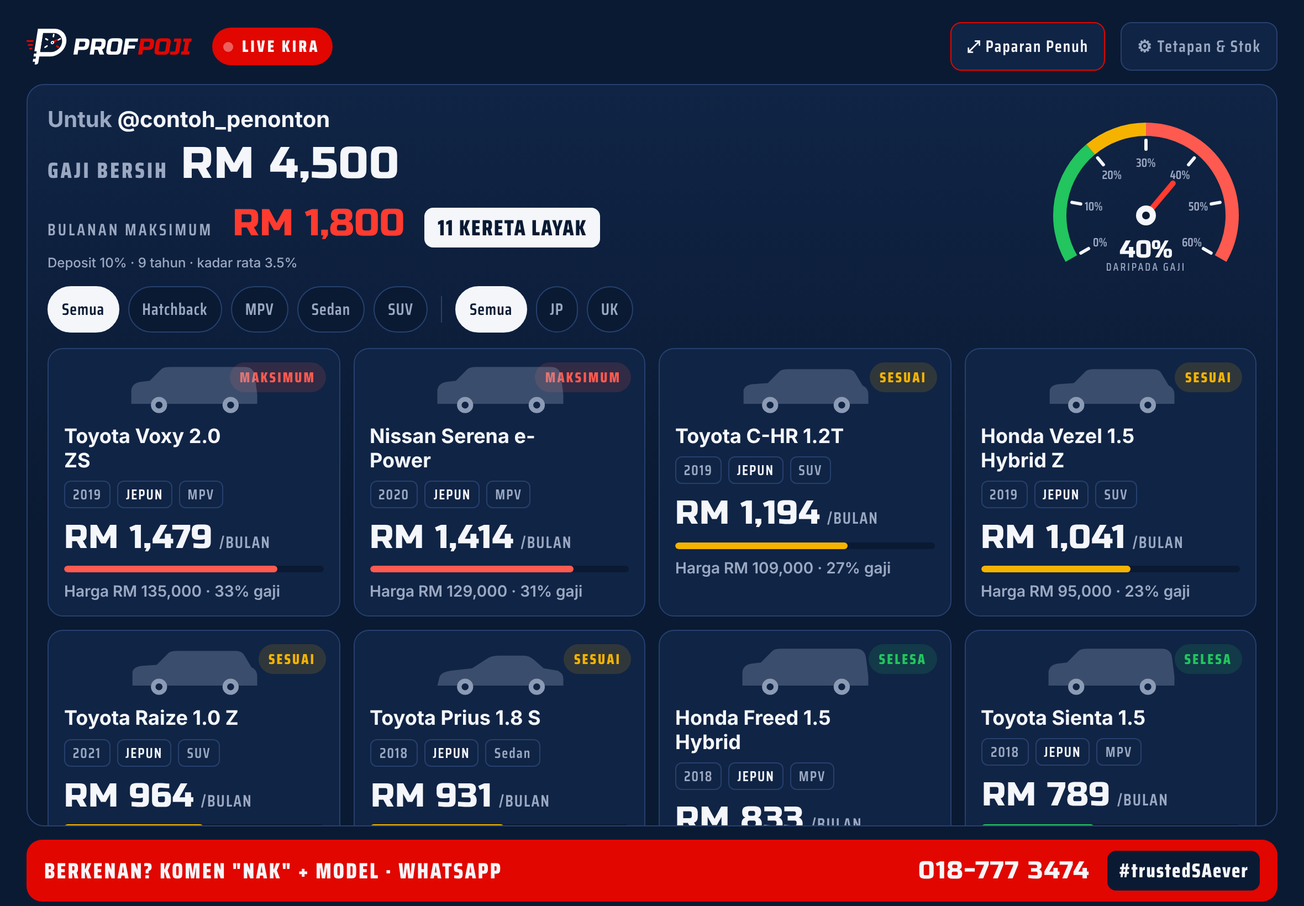
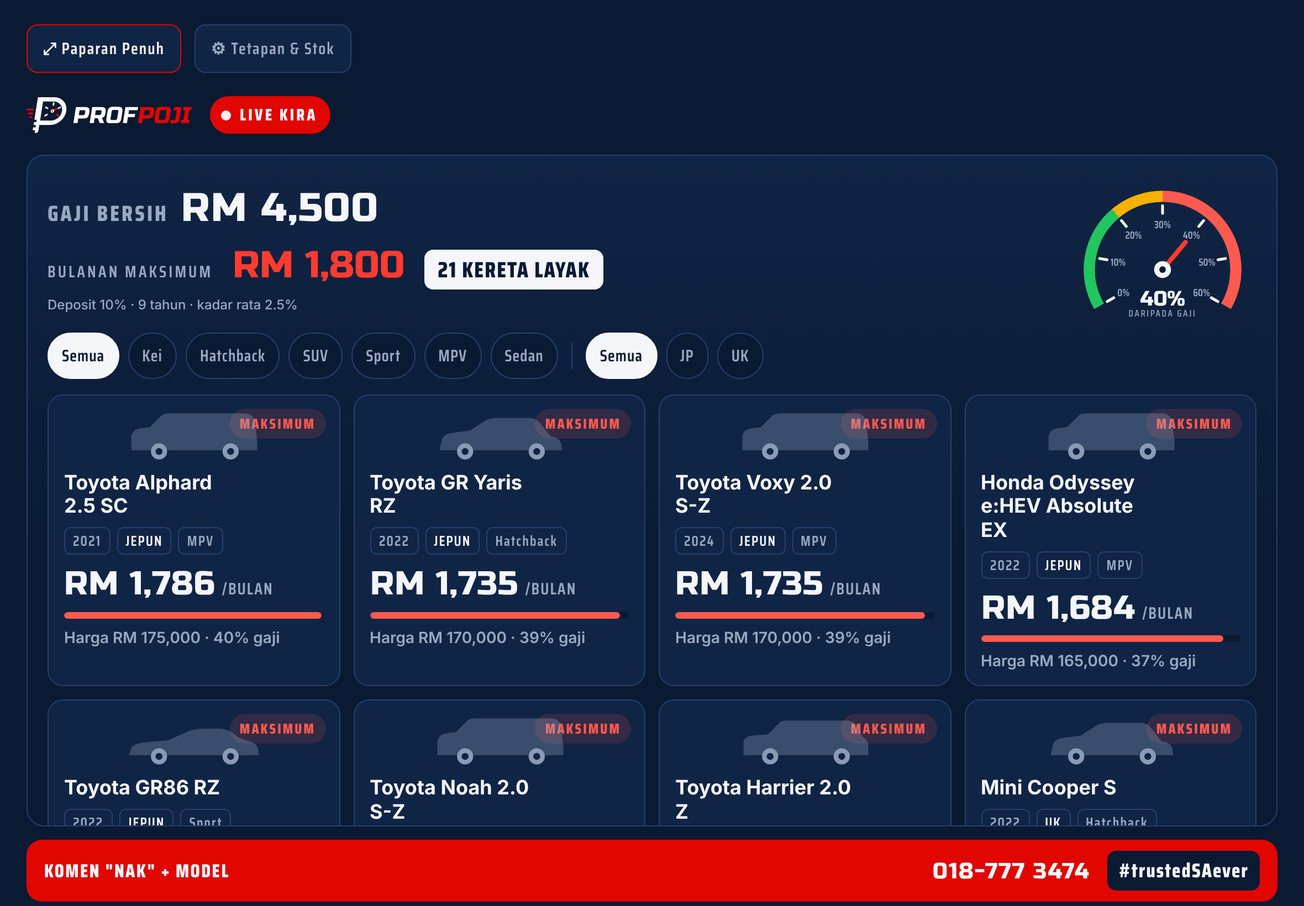
Live Kira: 50/50 layout, controls left, brand on stage side, remove viewer name
Claude-Session: https://claude.ai/code/session_012NA3A3oBaozfWnPx4m1XVS

diff --git a/live-kira/index.html b/live-kira/index.html
@@ -23,9 +23,14 @@ button{font:inherit;color:inherit;cursor:pointer;border:0;background:none}
 button:focus-visible,input:focus-visible,textarea:focus-visible{outline:3px solid var(--red-soft);outline-offset:2px}
 .num{font-variant-numeric:tabular-nums}
 
-.app{display:grid;grid-template-rows:auto 1fr auto;gap:12px;height:100%;min-height:600px}
+.app{display:grid;grid-template-columns:1fr 1fr;gap:12px;height:100%;min-height:600px}
+.opcol,.stagecol{display:grid;grid-template-rows:auto 1fr;gap:12px;min-height:0;min-width:0}
+.stagecol{grid-template-rows:auto 1fr auto}
+.app.full{grid-template-columns:1fr;grid-template-rows:auto 1fr}
+.app.full .op{display:none}
+.app.full .opcol{grid-template-rows:auto}
 /* top bar */
-.top{display:flex;align-items:center;gap:14px;flex-wrap:wrap}
+.top{display:flex;align-items:center;gap:12px;flex-wrap:wrap;min-height:48px}
 .top .logo{height:38px;width:auto;display:block}
 .live{display:inline-flex;align-items:center;gap:8px;padding:5px 12px 5px 10px;border-radius:999px;background:var(--red);font:800 15px var(--f-label);letter-spacing:2px}
 .live i{width:9px;height:9px;border-radius:50%;background:#fff;animation:blink 1.2s infinite}
@@ -34,9 +39,6 @@ button:focus-visible,input:focus-visible,textarea:focus-visible{outline:3px soli
 .tbtn{display:inline-flex;align-items:center;gap:8px;padding:9px 14px;border-radius:10px;background:var(--navy-2);border:1px solid var(--line);font:600 15px var(--f-label);letter-spacing:1px;color:var(--muted)}
 .tbtn[aria-pressed="true"]{color:var(--ink);border-color:var(--red)}
 
-.main{display:grid;grid-template-columns:minmax(300px,34%) 1fr;gap:12px;min-height:0}
-.app.full .main{grid-template-columns:1fr}
-.app.full .op{display:none}
 
 /* operator panel */
 .op{background:var(--navy-2);border:1px solid var(--line);border-radius:16px;padding:16px;display:flex;flex-direction:column;gap:12px;min-height:0;overflow:auto}
@@ -47,10 +49,12 @@ button:focus-visible,input:focus-visible,textarea:focus-visible{outline:3px soli
 .gaji .rm{font:800 22px var(--f-label);color:var(--muted)}
 .gaji .v{font:44px var(--f-display);letter-spacing:1px;line-height:1.1}
 .keys{display:grid;grid-template-columns:repeat(3,1fr);gap:8px}
-.keys button{height:54px;border-radius:12px;background:var(--navy-3);font:26px var(--f-display);transition:transform .05s}
+.keys button{height:56px;border-radius:12px;background:var(--navy-3);font:26px var(--f-display);transition:transform .05s}
 .keys button:active{transform:scale(.96);background:var(--line)}
 .keys .fn{font:700 18px var(--f-label);letter-spacing:1px;color:var(--muted)}
 .row{display:flex;gap:8px;flex-wrap:wrap;align-items:center}
+.op>*{flex-shrink:0}
+.pair{display:grid;grid-template-columns:1fr 1fr;gap:12px}
 .chip{padding:8px 12px;border-radius:999px;background:var(--navy);border:1px solid var(--line);font:600 15px var(--f-label);letter-spacing:.5px;color:var(--muted)}
 .chip[aria-pressed="true"]{background:var(--ink);color:var(--navy);border-color:var(--ink)}
 .go{height:62px;border-radius:14px;background:var(--red);font:22px var(--f-display);letter-spacing:1px;box-shadow:0 8px 24px rgba(225,6,0,.35)}
@@ -61,19 +65,17 @@ button:focus-visible,input:focus-visible,textarea:focus-visible{outline:3px soli
 /* stage */
 .stage{background:linear-gradient(180deg,var(--navy-2),var(--navy) 60%);border:1px solid var(--line);border-radius:16px;padding:18px;display:flex;flex-direction:column;gap:14px;min-height:0;overflow:auto;position:relative}
 .hero{display:grid;grid-template-columns:1fr auto;gap:18px;align-items:center}
-.who{font:700 20px var(--f-body);color:var(--muted);min-width:0;overflow-wrap:anywhere}
-.who b{color:var(--ink)}
 .salary{font:800 20px var(--f-label);letter-spacing:2px;color:var(--muted);margin-top:4px}
-.salary b{font:40px var(--f-display);color:var(--ink);letter-spacing:1px;margin-left:6px}
+.salary b{font:36px var(--f-display);color:var(--ink);letter-spacing:1px;margin-left:6px}
 .maxline{margin-top:10px;display:flex;flex-wrap:wrap;gap:8px 18px;align-items:baseline}
 .maxline .k{font:600 15px var(--f-label);letter-spacing:2px;color:var(--muted)}
 .maxline .big{font:34px var(--f-display);color:var(--red-soft)}
 .maxline .count{font:800 20px var(--f-label);letter-spacing:1px;background:var(--ink);color:var(--navy);padding:2px 12px;border-radius:8px}
-.gauge{width:200px;height:auto;display:block}
+.gauge{width:170px;height:auto;display:block}
 .filters{display:flex;gap:8px;flex-wrap:wrap;align-items:center}
 .filters .sep{width:1px;height:24px;background:var(--line);margin:0 4px}
 
-.grid{display:grid;grid-template-columns:repeat(auto-fill,minmax(230px,1fr));gap:12px;align-content:start}
+.grid{display:grid;grid-template-columns:repeat(auto-fill,minmax(220px,1fr));gap:12px;align-content:start}
 .car{background:var(--navy-2);border:1px solid var(--line);border-radius:14px;padding:14px;display:flex;flex-direction:column;gap:8px;position:relative;overflow:hidden;animation:pop .35s both}
 @keyframes pop{from{opacity:.0;transform:translateY(8px)}to{opacity:1;transform:none}}
 .car .tier{position:absolute;top:12px;right:12px;font:800 13px var(--f-label);letter-spacing:1.5px;padding:3px 9px;border-radius:999px}
@@ -102,8 +104,8 @@ button:focus-visible,input:focus-visible,textarea:focus-visible{outline:3px soli
 
 /* bottom ticker */
 .cta{display:flex;align-items:center;gap:16px;flex-wrap:wrap;background:var(--red);border-radius:14px;padding:10px 16px}
-.cta .say{font:800 20px var(--f-label);letter-spacing:1.5px;flex:1;min-width:0}
-.cta .ph{font:22px var(--f-display);letter-spacing:1px;user-select:all}
+.cta .say{font:800 17px var(--f-label);letter-spacing:1.2px;flex:1;min-width:0;white-space:nowrap}
+.cta .ph{font:20px var(--f-display);letter-spacing:1px;user-select:all}
 .cta .tag{font:800 18px var(--f-label);letter-spacing:1px;background:var(--navy);padding:4px 10px;border-radius:8px}
 .note{font:500 12px var(--f-body);color:var(--muted)}
 
@@ -119,7 +121,7 @@ button:focus-visible,input:focus-visible,textarea:focus-visible{outline:3px soli
 .help{font:400 13px/1.5 var(--f-body);color:var(--muted);margin:0}
 
 @media (max-width:900px){
-  .main{grid-template-columns:1fr}
+  .app{grid-template-columns:1fr}
   .app{height:auto}
   .hero{grid-template-columns:1fr}
   .gauge{width:170px}
@@ -128,18 +130,12 @@ button:focus-visible,input:focus-visible,textarea:focus-visible{outline:3px soli
 </style>
 
 <div class="app" id="app">
-  <header class="top">
-    <svg class="logo" role="img" aria-label="ProfPoji" xmlns="http://www.w3.org/2000/svg" viewBox="0 50 713 176" width="713" height="176"><g transform="translate(10 0)"><g transform="skewX(-9) translate(18 0)"><rect x="-10" y="112" width="30" height="7" rx="3.5" fill="#E10600"/><rect x="-2" y="128" width="22" height="7" rx="3.5" fill="#E10600"/><rect x="6" y="144" width="14" height="7" rx="3.5" fill="#E10600"/><path d="M40,64 H100 A58,58 0 0 1 100,180 H40 Z M54,82 V162 H100 A40,40 0 0 0 100,82 Z" fill="#FFFFFF" fill-rule="evenodd"/><path d="M30,64 H54 V204 Q54,214 44,214 H40 V202 H30 V190 H40 V180 H30 V168 H40 V158 H30 Z" fill="#FFFFFF"/><line x1="79.5" y1="136.3" x2="72.1" y2="141.5" stroke="#FFFFFF" stroke-width="6.5" stroke-linecap="round"/><line x1="77.8" y1="110.5" x2="69.8" y2="106.3" stroke="#FFFFFF" stroke-width="6.5" stroke-linecap="round"/><line x1="100.0" y1="97.0" x2="100.0" y2="88.0" stroke="#FFFFFF" stroke-width="6.5" stroke-linecap="round"/><line x1="122.2" y1="110.5" x2="130.2" y2="106.3" stroke="#FFFFFF" stroke-width="6.5" stroke-linecap="round"/><line x1="120.5" y1="136.3" x2="127.9" y2="141.5" stroke="#E10600" stroke-width="6.5" stroke-linecap="round"/><path d="M103.7,127.3 L124.6,104.8 L96.3,116.7 Z" fill="#E10600"/><circle cx="100" cy="122" r="7" fill="#FFFFFF"/><circle cx="100" cy="122" r="2.6" fill="#0A1A33"/></g></g><g transform="skewX(-9) translate(42 0)"><path d="M181.76 104.8H222.07999999999998Q232.16 104.8 236.72 109.36Q241.28 113.92 241.28 124.0V133.6Q241.28 143.68 236.72 148.24Q232.16 152.8 222.07999999999998 152.8H199.04V172.0H181.76ZM224.0 124.0Q224.0 118.24000000000001 218.24 118.24000000000001H199.04V139.36H218.24Q224.0 139.36 224.0 133.6ZM249.92 104.8H290.24Q300.32 104.8 304.88 109.36Q309.44 113.92 309.44 124.0V132.64Q309.44 140.608 306.79999999999995 145.024Q304.15999999999997 149.44 298.4 150.88L310.4 172.0H291.68L280.64 151.84H267.2V172.0H249.92ZM292.15999999999997 124.0Q292.15999999999997 118.24000000000001 286.4 118.24000000000001H267.2V138.4H286.4Q292.15999999999997 138.4 292.15999999999997 132.64ZM362.23999999999995 123.03999999999999Q362.23999999999995 117.28 356.47999999999996 117.28H340.15999999999997Q334.4 117.28 334.4 123.03999999999999V153.76Q334.4 159.52 340.15999999999997 159.52H356.47999999999996Q362.23999999999995 159.52 362.23999999999995 153.76ZM379.52 153.76Q379.52 163.84 374.96 168.4Q370.4 172.96 360.32 172.96H336.32Q326.23999999999995 172.96 321.67999999999995 168.4Q317.11999999999995 163.84 317.11999999999995 153.76V123.03999999999999Q317.11999999999995 112.96000000000001 321.67999999999995 108.4Q326.23999999999995 103.84 336.32 103.84H360.32Q370.4 103.84 374.96 108.4Q379.52 112.96000000000001 379.52 123.03999999999999ZM406.40000000000003 172.0H389.12V104.8H442.40000000000003V118.24000000000001H406.40000000000003V134.07999999999998H434.72V147.52H406.40000000000003Z" fill="#FFFFFF"/><path d="M452.96 104.8H493.28Q503.36 104.8 507.92 109.36Q512.48 113.92 512.48 124.0V133.6Q512.48 143.68 507.92 148.24Q503.36 152.8 493.28 152.8H470.24V172.0H452.96ZM495.2 124.0Q495.2 118.24000000000001 489.44 118.24000000000001H470.24V139.36H489.44Q495.2 139.36 495.2 133.6ZM564.32 123.03999999999999Q564.32 117.28 558.5600000000001 117.28H542.24Q536.48 117.28 536.48 123.03999999999999V153.76Q536.48 159.52 542.24 159.52H558.5600000000001Q564.32 159.52 564.32 153.76ZM581.6 153.76Q581.6 163.84 577.04 168.4Q572.48 172.96 562.4 172.96H538.4Q528.32 172.96 523.76 168.4Q519.2 163.84 519.2 153.76V123.03999999999999Q519.2 112.96000000000001 523.76 108.4Q528.32 103.84 538.4 103.84H562.4Q572.48 103.84 577.04 108.4Q581.6 112.96000000000001 581.6 123.03999999999999ZM586.4000000000001 172.0V159.04Q593.888 159.52 601.7600000000001 159.52Q603.9680000000001 159.52 605.2640000000001 158.224Q606.5600000000001 156.928 606.5600000000001 154.72V118.24000000000001H594.08V104.8H623.84V154.72Q623.84 164.128 619.424 168.54399999999998Q615.008 172.96 605.84 172.96Q596.672 172.96 586.4000000000001 172.0ZM667.04 172.0H632.48V158.56H641.12V118.24000000000001H632.48V104.8H667.04V118.24000000000001H658.4V158.56H667.04Z" fill="#E10600"/></g></svg>
-    <span class="live"><i></i>LIVE KIRA</span>
-    <span class="sp"></span>
-    <button class="tbtn" id="btnFull" aria-pressed="false" type="button">⤢ Paparan Penuh</button>
-    <button class="tbtn" id="btnSet" type="button">⚙ Tetapan &amp; Stok</button>
-  </header>
-
-  <div class="main">
+  <div class="opcol">
+    <div class="top">
+      <button class="tbtn" id="btnFull" aria-pressed="false" type="button">⤢ Paparan Penuh</button>
+      <button class="tbtn" id="btnSet" type="button">⚙ Tetapan &amp; Stok</button>
+    </div>
     <section class="op" aria-label="Panel input">
-      <div class="field"><label class="lbl" for="nama">Nama penonton</label>
-        <input class="inp" id="nama" placeholder="@nama_tiktok" autocomplete="off"></div>
       <div class="field"><span class="lbl">Gaji bersih sebulan</span>
         <div class="gaji"><span class="rm">RM</span><span class="v num" id="gajiV">0</span></div></div>
       <div class="keys" id="keys">
@@ -150,20 +146,27 @@ button:focus-visible,input:focus-visible,textarea:focus-visible{outline:3px soli
       </div>
       <div class="field"><label class="lbl" for="komit">Komitmen bulanan lain (RM)</label>
         <input class="inp num" id="komit" inputmode="numeric" placeholder="0 · PTPTN, rumah, kad kredit"></div>
-      <div class="field"><span class="lbl">Deposit</span><div class="row" id="depChips"></div></div>
-      <div class="field"><span class="lbl">Tempoh pinjaman</span><div class="row" id="yrChips"></div></div>
+      <div class="pair">
+        <div class="field"><span class="lbl">Deposit</span><div class="row" id="depChips"></div></div>
+        <div class="field"><span class="lbl">Tempoh pinjaman</span><div class="row" id="yrChips"></div></div>
+      </div>
       <button class="go" id="go" type="button">PAPAR KERETA LAYAK</button>
-      <div class="field"><span class="lbl">Penonton tadi</span><div class="hist" id="hist"></div></div>
+      <div class="field"><span class="lbl">Gaji tadi</span><div class="hist" id="hist"></div></div>
     </section>
-
-    <section class="stage" aria-live="polite" id="stage"></section>
   </div>
 
-  <footer class="cta">
-    <span class="say">BERKENAN? KOMEN "NAK" + MODEL · WHATSAPP</span>
-    <span class="ph">018-777 3474</span>
-    <span class="tag">#trustedSAever</span>
-  </footer>
+  <div class="stagecol">
+    <header class="top">
+      <svg class="logo" role="img" aria-label="ProfPoji" xmlns="http://www.w3.org/2000/svg" viewBox="0 50 713 176" width="713" height="176"><g transform="translate(10 0)"><g transform="skewX(-9) translate(18 0)"><rect x="-10" y="112" width="30" height="7" rx="3.5" fill="#E10600"/><rect x="-2" y="128" width="22" height="7" rx="3.5" fill="#E10600"/><rect x="6" y="144" width="14" height="7" rx="3.5" fill="#E10600"/><path d="M40,64 H100 A58,58 0 0 1 100,180 H40 Z M54,82 V162 H100 A40,40 0 0 0 100,82 Z" fill="#FFFFFF" fill-rule="evenodd"/><path d="M30,64 H54 V204 Q54,214 44,214 H40 V202 H30 V190 H40 V180 H30 V168 H40 V158 H30 Z" fill="#FFFFFF"/><line x1="79.5" y1="136.3" x2="72.1" y2="141.5" stroke="#FFFFFF" stroke-width="6.5" stroke-linecap="round"/><line x1="77.8" y1="110.5" x2="69.8" y2="106.3" stroke="#FFFFFF" stroke-width="6.5" stroke-linecap="round"/><line x1="100.0" y1="97.0" x2="100.0" y2="88.0" stroke="#FFFFFF" stroke-width="6.5" stroke-linecap="round"/><line x1="122.2" y1="110.5" x2="130.2" y2="106.3" stroke="#FFFFFF" stroke-width="6.5" stroke-linecap="round"/><line x1="120.5" y1="136.3" x2="127.9" y2="141.5" stroke="#E10600" stroke-width="6.5" stroke-linecap="round"/><path d="M103.7,127.3 L124.6,104.8 L96.3,116.7 Z" fill="#E10600"/><circle cx="100" cy="122" r="7" fill="#FFFFFF"/><circle cx="100" cy="122" r="2.6" fill="#0A1A33"/></g></g><g transform="skewX(-9) translate(42 0)"><path d="M181.76 104.8H222.07999999999998Q232.16 104.8 236.72 109.36Q241.28 113.92 241.28 124.0V133.6Q241.28 143.68 236.72 148.24Q232.16 152.8 222.07999999999998 152.8H199.04V172.0H181.76ZM224.0 124.0Q224.0 118.24000000000001 218.24 118.24000000000001H199.04V139.36H218.24Q224.0 139.36 224.0 133.6ZM249.92 104.8H290.24Q300.32 104.8 304.88 109.36Q309.44 113.92 309.44 124.0V132.64Q309.44 140.608 306.79999999999995 145.024Q304.15999999999997 149.44 298.4 150.88L310.4 172.0H291.68L280.64 151.84H267.2V172.0H249.92ZM292.15999999999997 124.0Q292.15999999999997 118.24000000000001 286.4 118.24000000000001H267.2V138.4H286.4Q292.15999999999997 138.4 292.15999999999997 132.64ZM362.23999999999995 123.03999999999999Q362.23999999999995 117.28 356.47999999999996 117.28H340.15999999999997Q334.4 117.28 334.4 123.03999999999999V153.76Q334.4 159.52 340.15999999999997 159.52H356.47999999999996Q362.23999999999995 159.52 362.23999999999995 153.76ZM379.52 153.76Q379.52 163.84 374.96 168.4Q370.4 172.96 360.32 172.96H336.32Q326.23999999999995 172.96 321.67999999999995 168.4Q317.11999999999995 163.84 317.11999999999995 153.76V123.03999999999999Q317.11999999999995 112.96000000000001 321.67999999999995 108.4Q326.23999999999995 103.84 336.32 103.84H360.32Q370.4 103.84 374.96 108.4Q379.52 112.96000000000001 379.52 123.03999999999999ZM406.40000000000003 172.0H389.12V104.8H442.40000000000003V118.24000000000001H406.40000000000003V134.07999999999998H434.72V147.52H406.40000000000003Z" fill="#FFFFFF"/><path d="M452.96 104.8H493.28Q503.36 104.8 507.92 109.36Q512.48 113.92 512.48 124.0V133.6Q512.48 143.68 507.92 148.24Q503.36 152.8 493.28 152.8H470.24V172.0H452.96ZM495.2 124.0Q495.2 118.24000000000001 489.44 118.24000000000001H470.24V139.36H489.44Q495.2 139.36 495.2 133.6ZM564.32 123.03999999999999Q564.32 117.28 558.5600000000001 117.28H542.24Q536.48 117.28 536.48 123.03999999999999V153.76Q536.48 159.52 542.24 159.52H558.5600000000001Q564.32 159.52 564.32 153.76ZM581.6 153.76Q581.6 163.84 577.04 168.4Q572.48 172.96 562.4 172.96H538.4Q528.32 172.96 523.76 168.4Q519.2 163.84 519.2 153.76V123.03999999999999Q519.2 112.96000000000001 523.76 108.4Q528.32 103.84 538.4 103.84H562.4Q572.48 103.84 577.04 108.4Q581.6 112.96000000000001 581.6 123.03999999999999ZM586.4000000000001 172.0V159.04Q593.888 159.52 601.7600000000001 159.52Q603.9680000000001 159.52 605.2640000000001 158.224Q606.5600000000001 156.928 606.5600000000001 154.72V118.24000000000001H594.08V104.8H623.84V154.72Q623.84 164.128 619.424 168.54399999999998Q615.008 172.96 605.84 172.96Q596.672 172.96 586.4000000000001 172.0ZM667.04 172.0H632.48V158.56H641.12V118.24000000000001H632.48V104.8H667.04V118.24000000000001H658.4V158.56H667.04Z" fill="#E10600"/></g></svg>
+      <span class="live"><i></i>LIVE KIRA</span>
+    </header>
+    <section class="stage" aria-live="polite" id="stage"></section>
+    <footer class="cta">
+      <span class="say">KOMEN "NAK" + MODEL</span>
+      <span class="ph">018-777 3474</span>
+      <span class="tag">#trustedSAever</span>
+    </footer>
+  </div>
 </div>
 
 <div class="sheet" id="sheet" hidden>
@@ -233,8 +236,8 @@ Toyota Land Cruiser 300 ZX | 2023 | JP | 380000 | SUV`;
 const DEFAULTS = {rate:2.5, maxPct:40, dsr:60, selesa:20, sesuai:30, dep:10, years:9, stock:SAMPLE_STOCK};
 const store = {get(k){try{return JSON.parse(localStorage.getItem(k))}catch(e){return null}}, set(k,v){try{localStorage.setItem(k,JSON.stringify(v))}catch(e){}}};
 let S = Object.assign({}, DEFAULTS, store.get('pp-live-settings-v2') || {});
-let st = {nama:'@contoh_penonton', gaji:4500, komit:0, type:'Semua', origin:'Semua'};
-let hist = store.get('pp-live-hist') || [];
+let st = {gaji:4500, komit:0, type:'Semua', origin:'Semua'};
+let hist = store.get('pp-live-hist-v2') || [];
 let shown = true;
 
 const $ = id => document.getElementById(id);
@@ -301,7 +304,6 @@ function render(){
   stage.innerHTML = `
     <div class="hero">
       <div style="min-width:0">
-        <div class="who">Untuk <b>${esc(st.nama||'penonton')}</b></div>
         <div class="salary">GAJI BERSIH <b class="num">${rm(g)}</b></div>
         <div class="maxline">
           <span class="k">BULANAN MAKSIMUM</span><span class="big num">${rm(mx)}</span>
@@ -347,20 +349,19 @@ function chips(el, vals, cur, fmt, set){
   el.onclick = e=>{ const b=e.target.closest('button'); if(!b) return; set(+b.dataset.v); el.querySelectorAll('.chip').forEach(c=>c.setAttribute('aria-pressed', c===b)); render(); };
 }
 chips($('depChips'), [0,10,20,30], S.dep, v=>v+'%', v=>{S.dep=v; store.set('pp-live-settings-v2',S);});
-chips($('yrChips'), [5,7,9], S.years, v=>v+' tahun', v=>{S.years=v; store.set('pp-live-settings-v2',S);});
+chips($('yrChips'), [5,7,9], S.years, v=>v+' thn', v=>{S.years=v; store.set('pp-live-settings-v2',S);});
 $('komit').addEventListener('input', e=>{ st.komit = +e.target.value.replace(/\D/g,'') || 0; if(shown) render(); });
-$('nama').addEventListener('input', e=>{ st.nama = e.target.value.trim(); if(shown) render(); });
 $('go').addEventListener('click', ()=>{
   if(!st.gaji) return;
   shown = true; render();
-  hist = [{n:st.nama||'penonton', g:st.gaji, k:st.komit}, ...hist.filter(h=>!(h.n===st.nama && h.g===st.gaji))].slice(0,8);
-  store.set('pp-live-hist', hist); drawHist();
+  hist = [{g:st.gaji, k:st.komit}, ...hist.filter(h=>!(h.g===st.gaji && h.k===st.komit))].slice(0,8);
+  store.set('pp-live-hist-v2', hist); drawHist();
 });
 function drawHist(){
-  $('hist').innerHTML = hist.length ? hist.map((h,i)=>`<button type="button" data-i="${i}">${esc(h.n)} · ${rm(h.g)}</button>`).join('') : '<span class="note">Belum ada.</span>';
+  $('hist').innerHTML = hist.length ? hist.map((h,i)=>`<button type="button" data-i="${i}">${rm(h.g)}${h.k?` · komitmen ${rm(h.k)}`:''}</button>`).join('') : '<span class="note">Belum ada.</span>';
 }
 $('hist').addEventListener('click', e=>{ const b=e.target.closest('button'); if(!b) return; const h=hist[+b.dataset.i];
-  st.nama=h.n; st.gaji=h.g; st.komit=h.k; $('nama').value=h.n; $('komit').value=h.k||''; drawGaji(); shown=true; render(); });
+  st.gaji=h.g; st.komit=h.k; $('komit').value=h.k||''; drawGaji(); shown=true; render(); });
 $('stage').addEventListener('click', e=>{ const b=e.target.closest('[data-f]'); if(!b) return; st[b.dataset.f]=b.dataset.v; render(); });
 $('btnFull').addEventListener('click', e=>{ const on = !$('app').classList.contains('full'); $('app').classList.toggle('full', on); e.currentTarget.setAttribute('aria-pressed', on); });
 
@@ -375,5 +376,5 @@ $('sSave').addEventListener('click', ()=>{
   S.stock = $('sStock').value; store.set('pp-live-settings-v2', S); $('sheet').hidden=true; render();
 });
 
-$('nama').value = st.nama; drawGaji(); drawHist(); render();
+drawGaji(); drawHist(); render();
 </script>

diff --git a/live-kira/src/template.html b/live-kira/src/template.html
@@ -23,9 +23,14 @@ button{font:inherit;color:inherit;cursor:pointer;border:0;background:none}
 button:focus-visible,input:focus-visible,textarea:focus-visible{outline:3px solid var(--red-soft);outline-offset:2px}
 .num{font-variant-numeric:tabular-nums}
 
-.app{display:grid;grid-template-rows:auto 1fr auto;gap:12px;height:100%;min-height:600px}
+.app{display:grid;grid-template-columns:1fr 1fr;gap:12px;height:100%;min-height:600px}
+.opcol,.stagecol{display:grid;grid-template-rows:auto 1fr;gap:12px;min-height:0;min-width:0}
+.stagecol{grid-template-rows:auto 1fr auto}
+.app.full{grid-template-columns:1fr;grid-template-rows:auto 1fr}
+.app.full .op{display:none}
+.app.full .opcol{grid-template-rows:auto}
 /* top bar */
-.top{display:flex;align-items:center;gap:14px;flex-wrap:wrap}
+.top{display:flex;align-items:center;gap:12px;flex-wrap:wrap;min-height:48px}
 .top .logo{height:38px;width:auto;display:block}
 .live{display:inline-flex;align-items:center;gap:8px;padding:5px 12px 5px 10px;border-radius:999px;background:var(--red);font:800 15px var(--f-label);letter-spacing:2px}
 .live i{width:9px;height:9px;border-radius:50%;background:#fff;animation:blink 1.2s infinite}
@@ -34,9 +39,6 @@ button:focus-visible,input:focus-visible,textarea:focus-visible{outline:3px soli
 .tbtn{display:inline-flex;align-items:center;gap:8px;padding:9px 14px;border-radius:10px;background:var(--navy-2);border:1px solid var(--line);font:600 15px var(--f-label);letter-spacing:1px;color:var(--muted)}
 .tbtn[aria-pressed="true"]{color:var(--ink);border-color:var(--red)}
 
-.main{display:grid;grid-template-columns:minmax(300px,34%) 1fr;gap:12px;min-height:0}
-.app.full .main{grid-template-columns:1fr}
-.app.full .op{display:none}
 
 /* operator panel */
 .op{background:var(--navy-2);border:1px solid var(--line);border-radius:16px;padding:16px;display:flex;flex-direction:column;gap:12px;min-height:0;overflow:auto}
@@ -47,10 +49,12 @@ button:focus-visible,input:focus-visible,textarea:focus-visible{outline:3px soli
 .gaji .rm{font:800 22px var(--f-label);color:var(--muted)}
 .gaji .v{font:44px var(--f-display);letter-spacing:1px;line-height:1.1}
 .keys{display:grid;grid-template-columns:repeat(3,1fr);gap:8px}
-.keys button{height:54px;border-radius:12px;background:var(--navy-3);font:26px var(--f-display);transition:transform .05s}
+.keys button{height:56px;border-radius:12px;background:var(--navy-3);font:26px var(--f-display);transition:transform .05s}
 .keys button:active{transform:scale(.96);background:var(--line)}
 .keys .fn{font:700 18px var(--f-label);letter-spacing:1px;color:var(--muted)}
 .row{display:flex;gap:8px;flex-wrap:wrap;align-items:center}
+.op>*{flex-shrink:0}
+.pair{display:grid;grid-template-columns:1fr 1fr;gap:12px}
 .chip{padding:8px 12px;border-radius:999px;background:var(--navy);border:1px solid var(--line);font:600 15px var(--f-label);letter-spacing:.5px;color:var(--muted)}
 .chip[aria-pressed="true"]{background:var(--ink);color:var(--navy);border-color:var(--ink)}
 .go{height:62px;border-radius:14px;background:var(--red);font:22px var(--f-display);letter-spacing:1px;box-shadow:0 8px 24px rgba(225,6,0,.35)}
@@ -61,19 +65,17 @@ button:focus-visible,input:focus-visible,textarea:focus-visible{outline:3px soli
 /* stage */
 .stage{background:linear-gradient(180deg,var(--navy-2),var(--navy) 60%);border:1px solid var(--line);border-radius:16px;padding:18px;display:flex;flex-direction:column;gap:14px;min-height:0;overflow:auto;position:relative}
 .hero{display:grid;grid-template-columns:1fr auto;gap:18px;align-items:center}
-.who{font:700 20px var(--f-body);color:var(--muted);min-width:0;overflow-wrap:anywhere}
-.who b{color:var(--ink)}
 .salary{font:800 20px var(--f-label);letter-spacing:2px;color:var(--muted);margin-top:4px}
-.salary b{font:40px var(--f-display);color:var(--ink);letter-spacing:1px;margin-left:6px}
+.salary b{font:36px var(--f-display);color:var(--ink);letter-spacing:1px;margin-left:6px}
 .maxline{margin-top:10px;display:flex;flex-wrap:wrap;gap:8px 18px;align-items:baseline}
 .maxline .k{font:600 15px var(--f-label);letter-spacing:2px;color:var(--muted)}
 .maxline .big{font:34px var(--f-display);color:var(--red-soft)}
 .maxline .count{font:800 20px var(--f-label);letter-spacing:1px;background:var(--ink);color:var(--navy);padding:2px 12px;border-radius:8px}
-.gauge{width:200px;height:auto;display:block}
+.gauge{width:170px;height:auto;display:block}
 .filters{display:flex;gap:8px;flex-wrap:wrap;align-items:center}
 .filters .sep{width:1px;height:24px;background:var(--line);margin:0 4px}
 
-.grid{display:grid;grid-template-columns:repeat(auto-fill,minmax(230px,1fr));gap:12px;align-content:start}
+.grid{display:grid;grid-template-columns:repeat(auto-fill,minmax(220px,1fr));gap:12px;align-content:start}
 .car{background:var(--navy-2);border:1px solid var(--line);border-radius:14px;padding:14px;display:flex;flex-direction:column;gap:8px;position:relative;overflow:hidden;animation:pop .35s both}
 @keyframes pop{from{opacity:.0;transform:translateY(8px)}to{opacity:1;transform:none}}
 .car .tier{position:absolute;top:12px;right:12px;font:800 13px var(--f-label);letter-spacing:1.5px;padding:3px 9px;border-radius:999px}
@@ -102,8 +104,8 @@ button:focus-visible,input:focus-visible,textarea:focus-visible{outline:3px soli
 
 /* bottom ticker */
 .cta{display:flex;align-items:center;gap:16px;flex-wrap:wrap;background:var(--red);border-radius:14px;padding:10px 16px}
-.cta .say{font:800 20px var(--f-label);letter-spacing:1.5px;flex:1;min-width:0}
-.cta .ph{font:22px var(--f-display);letter-spacing:1px;user-select:all}
+.cta .say{font:800 17px var(--f-label);letter-spacing:1.2px;flex:1;min-width:0;white-space:nowrap}
+.cta .ph{font:20px var(--f-display);letter-spacing:1px;user-select:all}
 .cta .tag{font:800 18px var(--f-label);letter-spacing:1px;background:var(--navy);padding:4px 10px;border-radius:8px}
 .note{font:500 12px var(--f-body);color:var(--muted)}
 
@@ -119,7 +121,7 @@ button:focus-visible,input:focus-visible,textarea:focus-visible{outline:3px soli
 .help{font:400 13px/1.5 var(--f-body);color:var(--muted);margin:0}
 
 @media (max-width:900px){
-  .main{grid-template-columns:1fr}
+  .app{grid-template-columns:1fr}
   .app{height:auto}
   .hero{grid-template-columns:1fr}
   .gauge{width:170px}
@@ -128,18 +130,12 @@ button:focus-visible,input:focus-visible,textarea:focus-visible{outline:3px soli
 </style>
 
 <div class="app" id="app">
-  <header class="top">
-    <!--LOGO-->
-    <span class="live"><i></i>LIVE KIRA</span>
-    <span class="sp"></span>
-    <button class="tbtn" id="btnFull" aria-pressed="false" type="button">⤢ Paparan Penuh</button>
-    <button class="tbtn" id="btnSet" type="button">⚙ Tetapan &amp; Stok</button>
-  </header>
-
-  <div class="main">
+  <div class="opcol">
+    <div class="top">
+      <button class="tbtn" id="btnFull" aria-pressed="false" type="button">⤢ Paparan Penuh</button>
+      <button class="tbtn" id="btnSet" type="button">⚙ Tetapan &amp; Stok</button>
+    </div>
     <section class="op" aria-label="Panel input">
-      <div class="field"><label class="lbl" for="nama">Nama penonton</label>
-        <input class="inp" id="nama" placeholder="@nama_tiktok" autocomplete="off"></div>
       <div class="field"><span class="lbl">Gaji bersih sebulan</span>
         <div class="gaji"><span class="rm">RM</span><span class="v num" id="gajiV">0</span></div></div>
       <div class="keys" id="keys">
@@ -150,20 +146,27 @@ button:focus-visible,input:focus-visible,textarea:focus-visible{outline:3px soli
       </div>
       <div class="field"><label class="lbl" for="komit">Komitmen bulanan lain (RM)</label>
         <input class="inp num" id="komit" inputmode="numeric" placeholder="0 · PTPTN, rumah, kad kredit"></div>
-      <div class="field"><span class="lbl">Deposit</span><div class="row" id="depChips"></div></div>
-      <div class="field"><span class="lbl">Tempoh pinjaman</span><div class="row" id="yrChips"></div></div>
+      <div class="pair">
+        <div class="field"><span class="lbl">Deposit</span><div class="row" id="depChips"></div></div>
+        <div class="field"><span class="lbl">Tempoh pinjaman</span><div class="row" id="yrChips"></div></div>
+      </div>
       <button class="go" id="go" type="button">PAPAR KERETA LAYAK</button>
-      <div class="field"><span class="lbl">Penonton tadi</span><div class="hist" id="hist"></div></div>
+      <div class="field"><span class="lbl">Gaji tadi</span><div class="hist" id="hist"></div></div>
     </section>
-
-    <section class="stage" aria-live="polite" id="stage"></section>
   </div>
 
-  <footer class="cta">
-    <span class="say">BERKENAN? KOMEN "NAK" + MODEL · WHATSAPP</span>
-    <span class="ph">018-777 3474</span>
-    <span class="tag">#trustedSAever</span>
-  </footer>
+  <div class="stagecol">
+    <header class="top">
+      <!--LOGO-->
+      <span class="live"><i></i>LIVE KIRA</span>
+    </header>
+    <section class="stage" aria-live="polite" id="stage"></section>
+    <footer class="cta">
+      <span class="say">KOMEN "NAK" + MODEL</span>
+      <span class="ph">018-777 3474</span>
+      <span class="tag">#trustedSAever</span>
+    </footer>
+  </div>
 </div>
 
 <div class="sheet" id="sheet" hidden>
@@ -233,8 +236,8 @@ Toyota Land Cruiser 300 ZX | 2023 | JP | 380000 | SUV`;
 const DEFAULTS = {rate:2.5, maxPct:40, dsr:60, selesa:20, sesuai:30, dep:10, years:9, stock:SAMPLE_STOCK};
 const store = {get(k){try{return JSON.parse(localStorage.getItem(k))}catch(e){return null}}, set(k,v){try{localStorage.setItem(k,JSON.stringify(v))}catch(e){}}};
 let S = Object.assign({}, DEFAULTS, store.get('pp-live-settings-v2') || {});
-let st = {nama:'@contoh_penonton', gaji:4500, komit:0, type:'Semua', origin:'Semua'};
-let hist = store.get('pp-live-hist') || [];
+let st = {gaji:4500, komit:0, type:'Semua', origin:'Semua'};
+let hist = store.get('pp-live-hist-v2') || [];
 let shown = true;
 
 const $ = id => document.getElementById(id);
@@ -301,7 +304,6 @@ function render(){
   stage.innerHTML = `
     <div class="hero">
       <div style="min-width:0">
-        <div class="who">Untuk <b>${esc(st.nama||'penonton')}</b></div>
         <div class="salary">GAJI BERSIH <b class="num">${rm(g)}</b></div>
         <div class="maxline">
           <span class="k">BULANAN MAKSIMUM</span><span class="big num">${rm(mx)}</span>
@@ -347,20 +349,19 @@ function chips(el, vals, cur, fmt, set){
   el.onclick = e=>{ const b=e.target.closest('button'); if(!b) return; set(+b.dataset.v); el.querySelectorAll('.chip').forEach(c=>c.setAttribute('aria-pressed', c===b)); render(); };
 }
 chips($('depChips'), [0,10,20,30], S.dep, v=>v+'%', v=>{S.dep=v; store.set('pp-live-settings-v2',S);});
-chips($('yrChips'), [5,7,9], S.years, v=>v+' tahun', v=>{S.years=v; store.set('pp-live-settings-v2',S);});
+chips($('yrChips'), [5,7,9], S.years, v=>v+' thn', v=>{S.years=v; store.set('pp-live-settings-v2',S);});
 $('komit').addEventListener('input', e=>{ st.komit = +e.target.value.replace(/\D/g,'') || 0; if(shown) render(); });
-$('nama').addEventListener('input', e=>{ st.nama = e.target.value.trim(); if(shown) render(); });
 $('go').addEventListener('click', ()=>{
   if(!st.gaji) return;
   shown = true; render();
-  hist = [{n:st.nama||'penonton', g:st.gaji, k:st.komit}, ...hist.filter(h=>!(h.n===st.nama && h.g===st.gaji))].slice(0,8);
-  store.set('pp-live-hist', hist); drawHist();
+  hist = [{g:st.gaji, k:st.komit}, ...hist.filter(h=>!(h.g===st.gaji && h.k===st.komit))].slice(0,8);
+  store.set('pp-live-hist-v2', hist); drawHist();
 });
 function drawHist(){
-  $('hist').innerHTML = hist.length ? hist.map((h,i)=>`<button type="button" data-i="${i}">${esc(h.n)} · ${rm(h.g)}</button>`).join('') : '<span class="note">Belum ada.</span>';
+  $('hist').innerHTML = hist.length ? hist.map((h,i)=>`<button type="button" data-i="${i}">${rm(h.g)}${h.k?` · komitmen ${rm(h.k)}`:''}</button>`).join('') : '<span class="note">Belum ada.</span>';
 }
 $('hist').addEventListener('click', e=>{ const b=e.target.closest('button'); if(!b) return; const h=hist[+b.dataset.i];
-  st.nama=h.n; st.gaji=h.g; st.komit=h.k; $('nama').value=h.n; $('komit').value=h.k||''; drawGaji(); shown=true; render(); });
+  st.gaji=h.g; st.komit=h.k; $('komit').value=h.k||''; drawGaji(); shown=true; render(); });
 $('stage').addEventListener('click', e=>{ const b=e.target.closest('[data-f]'); if(!b) return; st[b.dataset.f]=b.dataset.v; render(); });
 $('btnFull').addEventListener('click', e=>{ const on = !$('app').classList.contains('full'); $('app').classList.toggle('full', on); e.currentTarget.setAttribute('aria-pressed', on); });
 
@@ -375,5 +376,5 @@ $('sSave').addEventListener('click', ()=>{
   S.stock = $('sStock').value; store.set('pp-live-settings-v2', S); $('sheet').hidden=true; render();
 });
 
-$('nama').value = st.nama; drawGaji(); drawHist(); render();
+drawGaji(); drawHist(); render();
 </script>
